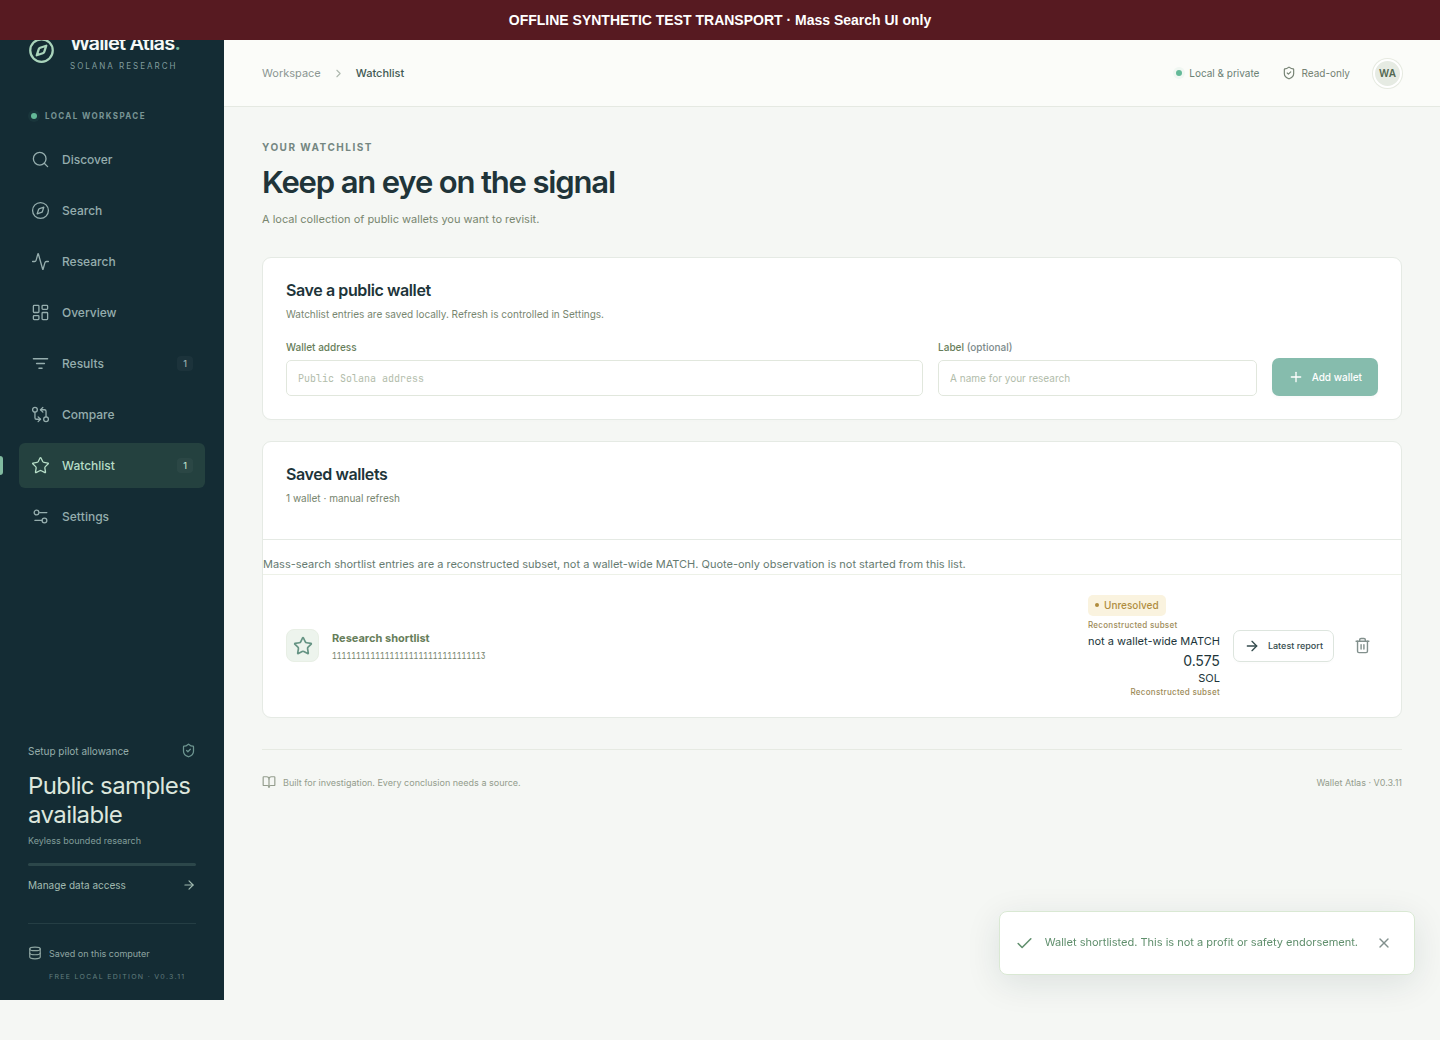
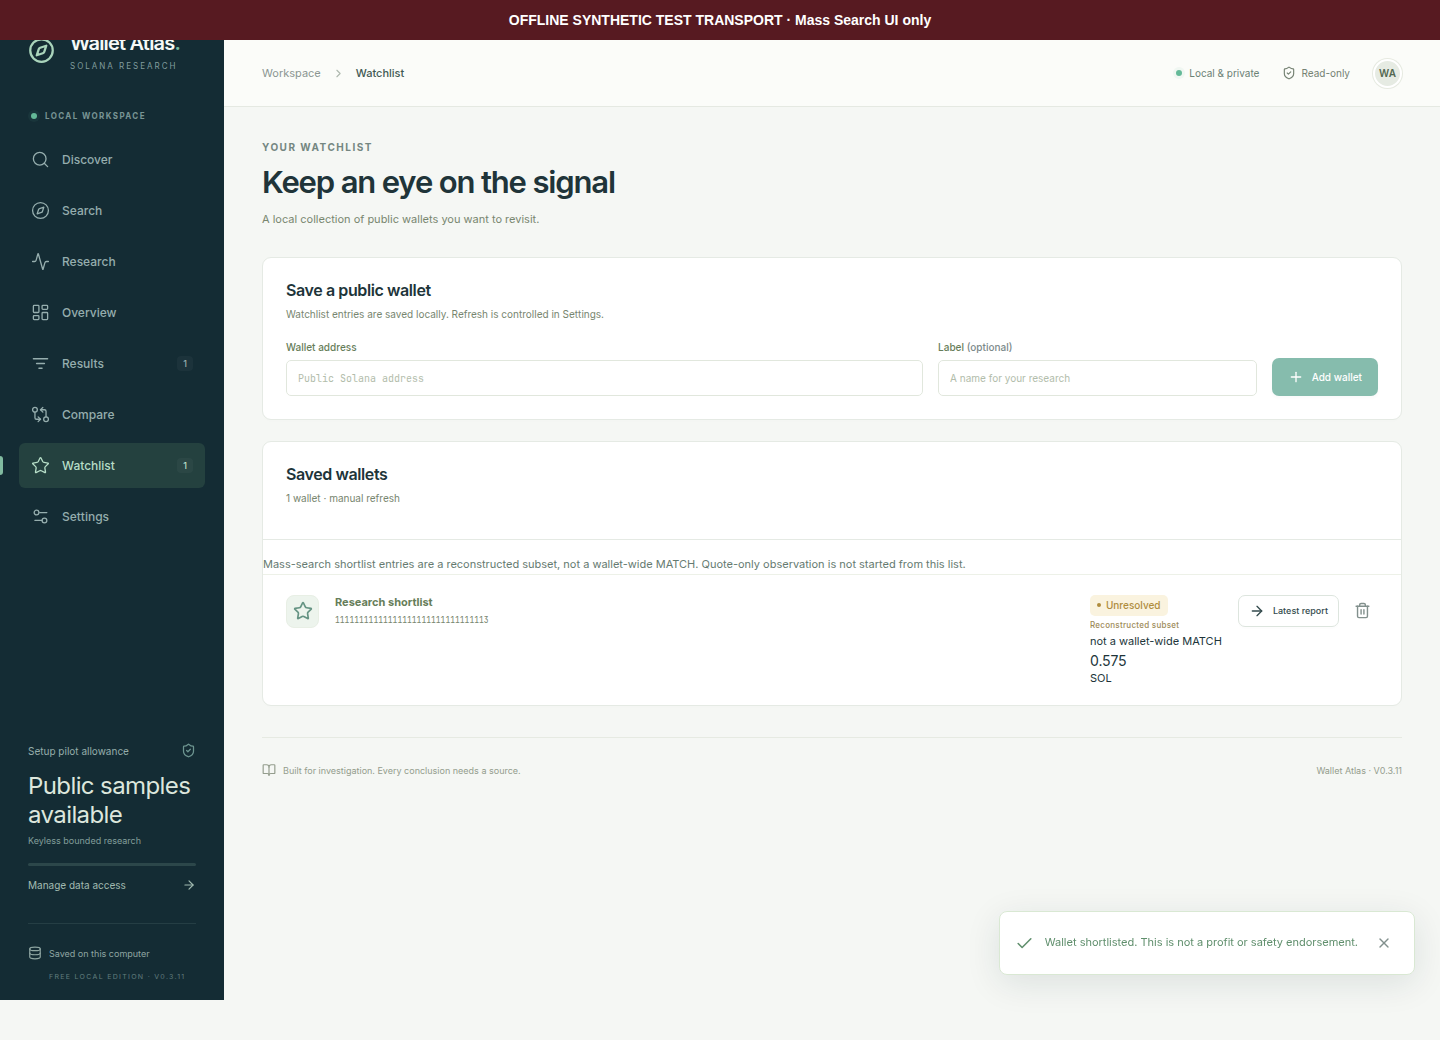
Record grouped Watchlist P&L and honest empty states.
Chromium PASS at 1440 and 360: subset 0.575 SOL stays with Unresolved /
reconstructed-subset labels, empty Watchlist/Results are not MATCH, and
Reopen after the post-restart export still shows the independent worksheet.

diff --git a/evidence/mass-wallet-funnel/DELIVERY.md b/evidence/mass-wallet-funnel/DELIVERY.md
@@ -7,7 +7,8 @@ A local Search funnel now runs offline from an authorised-or-fixture candidate s
 - Repository: `vermilion1992/solana-wallet-scanner`
 - Branch: `cursor/mass-wallet-funnel-v1-1055` (reversible; named for the cloud agent policy; equivalent intent to `codex/mass-wallet-funnel-v1`)
 - Base: `codex/screening-forward-research` `fa9f1307b2ee6b8e4d4288b5ee55b0d220404f69` (PR #1 left unmerged; PR #2 merged into this base at `ce3d0739` covering through `bbe9aa85`)
-- Tested application SHA: `86ad8f6f0411f70521014cbf017b6589e949b4d7`
+- Tested application SHA: `a1082c65ef5870d75c034f77d939f6d9d8313726`
+- Watchlist-layout SHA: `a1082c65ef5870d75c034f77d939f6d9d8313726`
 - Restart-export SHA: `86ad8f6f0411f70521014cbf017b6589e949b4d7`
 - Restart-shortlist SHA: `f399ff02f60721c4d4c599f0dd3ddc675731e3ea`
 - Shortlist SHA: `e8f63dda5effaf086a14f4e6e29eb0b551d81450`
@@ -41,7 +42,7 @@ Changed application files (purpose):
 ## Gate matrix
 | Gate | State | Evidence | Remaining dependency |
 |---|---|---|---|
-| G0 Baseline/safety/software | PASS (software) | Strict `strict-v0.3` unchanged; caps 20/5 retained; 10k local capacity separate; this batch: 232 screening/mass-search/gates/app tests; frontend `check:discovery`; receipt development CONTRACT_VALID; synthetic Chromium Search → screen → shortlist → restart loop PASS at 1440 and 360 with overflow false, including Watchlist/Results/Latest report/export after restart | None for offline software |
+| G0 Baseline/safety/software | PASS (software) | Strict `strict-v0.3` unchanged; caps 20/5 retained; 10k local capacity separate; this batch: 232 screening/mass-search/gates/app tests; frontend `check:discovery`; receipt development CONTRACT_VALID; synthetic Chromium Search → empty Watchlist/Results → screen → shortlist → restart loop PASS at 1440 and 360 with overflow false, including grouped Watchlist P&L and export-reopen worksheet | None for offline software |
 | G1 Genuine vertical slice | BLOCKED | Synthetic slice persists FIFO worksheet `total_profit_sol=0.575`, `t90=30s`, final hold `172800s` | Named live-research-authorization-v1 for Birdeye page + Helius targeted history |
 | G2 Genuine 1,000-candidate search | BLOCKED | Synthetic 1,000 unique acquire in 0.1508 s, 0 external requests; triage 200 promoted / 800 deferred | Birdeye `GET /trader/gainers-losers`, call ceiling 10, credit ceiling 250 CU, remaining quota confirmed, duration under 5 minutes if entitled |
 | G3 Three genuine reconciled analytics reports | BLOCKED | Independent worksheet matches package dust-tail fixture; one synthetic report only | Helius `getTransactionsForAddress`, call ceiling 20, credit ceiling 600, without resetting setup-pilot; three genuine ≥10-episode reports including a loss/unresolved control |
@@ -70,7 +71,7 @@ Synthetic vertical slice (1 address): reconstructed through `accounting.analyze`
 - `frontend` `npm run build` → exit 0
 - Receipt checker on recorded G4 receipt: development → exit 0 CONTRACT_VALID; live-search → exit 2 INCOMPLETE (required)
 - `tools/validate.py` FOCUSED / FOCUSED_GROUPS['screening'] / SCREENING_FORWARD include the four mass-search modules as an exact partition
-- Browser: `.venv/bin/python tools/mass_search_browser.py --output /tmp/mass-search-browser-loop --chromium /usr/local/bin/google-chrome` → PASS. Cases: empty-not-scanned, offline-slice-populated, export-run, open-subset-report, restart-reopen-worksheet, results-subset-pnl, compare-subset-pnl, research-screen-subset, restart-reopen-screening, shortlist-subset-watchlist-results, restart-shortlist-loop. All recorded overflow checks false at 1440 and 360; 0 JS errors; 0 external requests. Evidence `ui-offline-browser/`.
+- Browser: `.venv/bin/python tools/mass_search_browser.py --output /tmp/mass-search-browser-layout --chromium /usr/local/bin/google-chrome` → PASS. Cases: empty-not-scanned, empty-watchlist-results, offline-slice-populated, export-run, open-subset-report, restart-reopen-worksheet, results-subset-pnl, compare-subset-pnl, research-screen-subset, restart-reopen-screening, shortlist-subset-watchlist-results, restart-shortlist-loop. All recorded overflow checks false at 1440 and 360; 0 JS errors; 0 external requests. Evidence `ui-offline-browser/`.
 - Independent reconciliation: dust-tail buy 100 @ 1.01 SOL, sales 50/45/5 worked by hand to 0.505/0.4545/0.0505 basis and 0.575 total; helper and fixture match those numbers. Later-buy scaling-in moves t90; unknown transfer revokes material-exit.
 - Live HTTP, source removal/restoration on genuine pages, and full screening-forward validate profile: not run in this batch
 - Failed/blocked/not-run: G1/G2/G3/G5 live paths BLOCKED; G6 NOT_RUN; live-search receipt profile exit 2; full `tools/validate.py --profile screening-forward` not executed end-to-end here
@@ -83,8 +84,11 @@ Synthetic vertical slice (1 address): reconstructed through `accounting.analyze`
 - After launcher restart, Reopen saved assessment still reads insufficient evidence / UNRESOLVED reconstructed subset / not MATCH. Start quote-only observation and Continue investigation stay disabled. Assessment picker shows `subset ·`. Screening export JSON is `source=mass-search`, `result=insufficient_evidence`, `financial_policy=UNRESOLVED`, `can_start_observation=false`. Overflow false at 1440 and 360. Evidence `ui-offline-browser/10-reopened-screening-after-restart-desktop.png`, `10-reopened-screening-after-restart-mobile.png`, `screening-export.json`, `result.json` case `restart-reopen-screening`.
 - Save to shortlist from that assessment stores watchlist `source=mass-search` (not live). Watchlist shows Unresolved / Reconstructed subset / 0.575 SOL / not a wallet-wide MATCH. Results still show the same subset P&L. Scheduled live watchlist scans skip these rows. Observation stays disabled. Evidence `ui-offline-browser/11-watchlist-shortlist-subset-desktop.png`, `11-watchlist-shortlist-subset-mobile.png`, `11-results-after-shortlist-desktop.png`, `11-results-after-shortlist-mobile.png`, `result.json` case `shortlist-subset-watchlist-results`.
 - After launcher restart, the shortlisted row is still on Watchlist as reconstructed subset / Unresolved / 0.575 SOL / not MATCH. Results still show 0.575 SOL. Latest report still opens the independent worksheet (0.575 SOL, t90 30 s, final hold 48 h / 172800 s). Search export after restart still includes `reports[0].worksheet.total_profit_sol=0.575`, `policy=UNRESOLVED`, `source=mass-search`. Research still shows Shortlisted with Start quote-only observation disabled. Overflow false at 1440 and 360. Evidence `ui-offline-browser/12-watchlist-after-restart-desktop.png`, `12-watchlist-after-restart-mobile.png`, `12-results-after-restart-desktop.png`, `13-watchlist-latest-report-after-restart-desktop.png`, `mass-search-export-after-restart.json`, `result.json` case `restart-shortlist-loop`.
+- Watchlist now keeps Unresolved / Reconstructed subset / not MATCH / 0.575 SOL in one `watch-report-meta` column; Latest report stays in `watch-actions`. Geometry assertion: P&L is inside the meta box and not under the button at 1440 or 360. Evidence `ui-offline-browser/11-watchlist-shortlist-subset-desktop.png`, `11-watchlist-shortlist-subset-mobile.png`.
+- Empty Watchlist says an empty list is not a MATCH shortlist and does not start quote-only observation. Empty Results with Data source = Mass-search subset says no reconstructed-subset reports / not wallet-wide MATCH. Evidence `ui-offline-browser/14-watchlist-empty-desktop.png`, `14-watchlist-empty-mobile.png`, `14-results-empty-desktop.png`, `14-results-empty-mobile.png`, `result.json` case `empty-watchlist-results`.
+- After the post-restart export, Reopen report still shows the independent worksheet 0.575 SOL / t90 30 s / final hold 48 h, still not MATCH. Evidence `ui-offline-browser/15-reopen-after-export-desktop.png`, `15-reopen-after-export-mobile.png`.
 
 ## Next action
-Offline: group Watchlist subset P&L with the Unresolved / reconstructed-subset labels so 0.575 SOL does not wrap under Latest report, and keep empty Watchlist/Results honest when no subset exists. Live remains blocked until one named `live-research-authorization-v1` (not the example file) confirms remaining quota and cycle dates: Birdeye `GET /trader/gainers-losers` (page 100, offset+limit ≤ 10000, ceiling 10 calls / 250 CU, purpose G2 1,000 unique candidates, $0 extra spend) and, separately, Helius `getTransactionsForAddress` for surviving wallets only (ceiling 20 calls / 600 credits, purpose G1/G3 targeted history, do not reset setup-pilot).
+Offline: make the Compare empty state honest when nothing is selected (subset rows are not a MATCH comparison). Live remains blocked until one named `live-research-authorization-v1` (not the example file) confirms remaining quota and cycle dates: Birdeye `GET /trader/gainers-losers` (page 100, offset+limit ≤ 10000, ceiling 10 calls / 250 CU, purpose G2 1,000 unique candidates, $0 extra spend) and, separately, Helius `getTransactionsForAddress` for surviving wallets only (ceiling 20 calls / 600 credits, purpose G1/G3 targeted history, do not reset setup-pilot).
 
 Independent outcomes: MASS_SEARCH_SOFTWARE = implemented offline. REAL_SEARCH_BENCHMARK, REAL_ANALYTICS_DEMONSTRATED, FORWARD_OPERATION_DEMONSTRATED, RESEARCH_OUTCOME = not demonstrated. Legacy PRODUCT_READY remains false.

diff --git a/ISSUES.md b/ISSUES.md
@@ -10,7 +10,7 @@ Continue from `codex/screening-forward-research` at
 | ID | Category / family | Status | Reproduction and preservation | Next evidence |
 | --- | --- | --- | --- | --- |
 | MS-SOFT | Implementation; staged funnel software | DONE (offline) | Source-to-report path, immutable stage decisions, Mass research v1 plan, 10k local capacity and receipt checker are added beside existing screening. Search UI fixture→freeze→triage→reconstruct→export/reopen is usable offline. Tested application `baa9993d1b7206ce6ed3a55fd4a98dba5c7f5f71`. | Live gates remain independently blocked |
-| MS-UI | Implementation; Search view 360px/desktop | VERIFIED_IN_SCOPE (synthetic browser) | After launcher restart the shortlisted mass-search row stays on Watchlist as reconstructed subset / Unresolved / 0.575 SOL / not MATCH. Results still show 0.575 SOL. Latest report still opens the independent worksheet. Search export after restart still carries `reports[].worksheet` 0.575 / UNRESOLVED / mass-search. Observation stays disabled. Tested application `86ad8f6f0411f70521014cbf017b6589e949b4d7`. Evidence `ui-offline-browser/12-watchlist-after-restart-desktop.png`, `13-watchlist-latest-report-after-restart-desktop.png`, `mass-search-export-after-restart.json`. | Watchlist row grouping so subset P&L stays with the Unresolved badge; empty-state honesty on Watchlist/Results when no subset exists. Live gates remain independently blocked |
+| MS-UI | Implementation; Search view 360px/desktop | VERIFIED_IN_SCOPE (synthetic browser) | Watchlist keeps 0.575 SOL in the same Unresolved / reconstructed-subset / not-MATCH group as the badge (not under Latest report) at 1440 and 360. Empty Watchlist is not a MATCH shortlist and does not start observation. Empty Results with Mass-search subset selected says no reconstructed-subset reports / not MATCH. After post-restart export, Reopen report still shows the independent worksheet. Tested application `a1082c65ef5870d75c034f77d939f6d9d8313726`. Evidence `ui-offline-browser/11-watchlist-shortlist-subset-desktop.png`, `14-watchlist-empty-desktop.png`, `14-results-empty-desktop.png`, `15-reopen-after-export-desktop.png`. | Compare empty state when nothing is selected, still honest that subset rows are not MATCH. Live gates remain independently blocked |
 | MS-LIVE | External permission; Birdeye/Helius live collection | BLOCKED | `config/live_authorization.example.json` is disabled. No remaining-quota confirmation exists. Setup-pilot ledger must not be reset. | One named authorization: provider, operation, purpose, call/credit ceiling, duration |
 | MS-G1 | Genuine vertical slice | BLOCKED | Offline synthetic slice can persist trades, subset P&L and median hold. That is not live acquisition. | Authorized page + targeted native buy/sell |
 | MS-G2 | Genuine 1,000-candidate search | BLOCKED | Fixture acquisition froze 1,000 synthetic rows in 0.1508 s with 0 provider calls. G2 requires real source requests. | Authorized Birdeye pages under a confirmed remaining quota |
